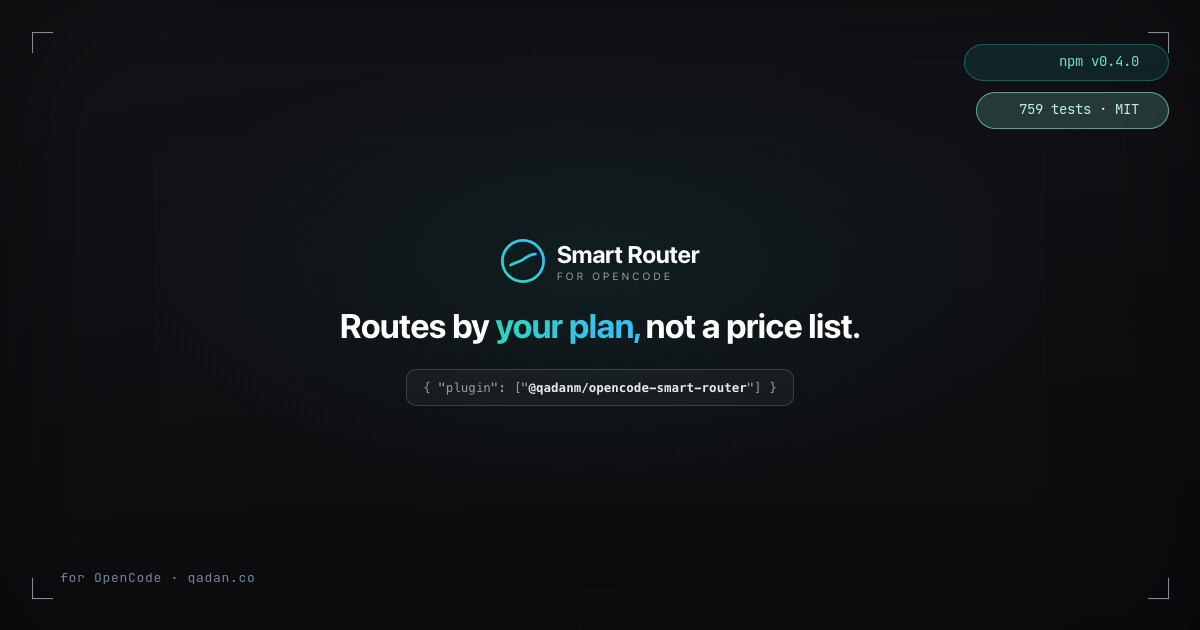
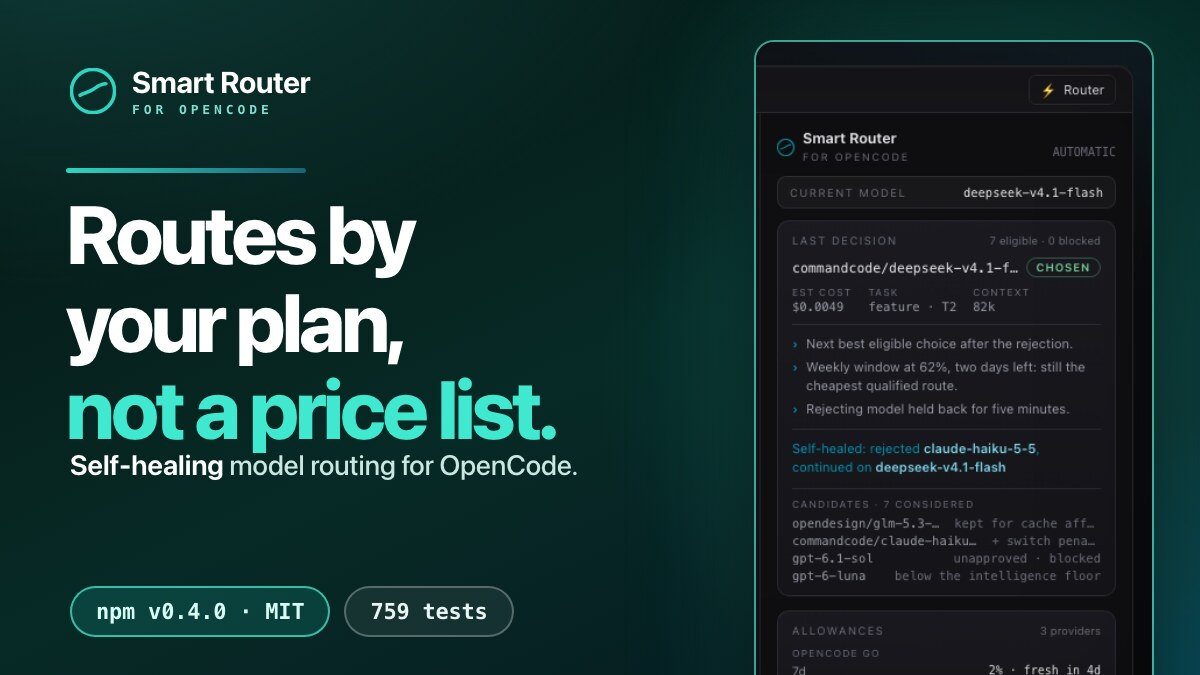
og: product poster card for the Smart Router case study, reproducible generator

diff --git a/scripts/og-smart-router.html b/scripts/og-smart-router.html
@@ -1,0 +1,78 @@
+<!doctype html>
+<html>
+<head>
+<meta charset="utf-8">
+<title>og</title>
+<style>
+  * { margin: 0; padding: 0; box-sizing: border-box; }
+  body {
+    width: 1200px; height: 675px; overflow: hidden; position: relative;
+    background:
+      radial-gradient(1050px 720px at 4% -30%, rgba(19, 78, 74, 0.9), transparent 68%),
+      radial-gradient(860px 640px at 108% 118%, rgba(8, 145, 178, 0.5), transparent 62%),
+      linear-gradient(155deg, #051512 0%, #072A26 52%, #06181F 100%);
+    font-family: -apple-system, BlinkMacSystemFont, "Segoe UI", Helvetica, Arial, sans-serif;
+    color: #fff;
+    -webkit-font-smoothing: antialiased;
+  }
+  .halo {
+    position: absolute; inset: 0; pointer-events: none;
+    background: radial-gradient(700px 500px at 88% 58%, rgba(45, 212, 191, 0.16), transparent 66%);
+  }
+  .brand {
+    position: absolute; left: 70px; top: 64px; display: flex; align-items: center; gap: 16px;
+  }
+  .mark { width: 46px; height: 46px; }
+  .brand .wm .n { font-size: 30px; font-weight: 700; letter-spacing: -0.02em; }
+  .brand .wm .s { font-size: 13px; letter-spacing: 0.3em; color: #7EDDD2; font-weight: 600; font-family: ui-monospace, SFMono-Regular, Menlo, monospace; margin-top: 2px; }
+  .headline { position: absolute; left: 66px; top: 190px; }
+  .headline .l {
+    font-size: 82px; font-weight: 800; letter-spacing: -0.045em; line-height: 1.07;
+  }
+  .headline .l.acc { color: #40E8D0; }
+  .sub { position: absolute; left: 70px; top: 448px; font-size: 28px; font-weight: 500; color: #C9E7E0; letter-spacing: -0.012em; }
+  .sub b { color: #fff; font-weight: 650; }
+  .chiprow { position: absolute; left: 70px; bottom: 38px; display: flex; gap: 14px; align-items: center; }
+  .chip {
+    font-family: ui-monospace, SFMono-Regular, Menlo, monospace;
+    background: rgba(15, 118, 110, 0.32); border: 2px solid rgba(64, 232, 208, 0.75);
+    color: #D8FFF6; border-radius: 999px; padding: 11px 24px;
+    font-size: 22px; font-weight: 600; letter-spacing: -0.01em;
+  }
+  .chip.ghost { background: rgba(255, 255, 255, 0.06); border-color: rgba(255, 255, 255, 0.28); color: #E7F4F1; }
+  .window {
+    position: absolute; right: 46px; top: 40px;
+    width: 400px; border-radius: 20px; overflow: hidden;
+    border: 2.5px solid rgba(94, 234, 212, 0.65);
+    box-shadow: 0 1px 0 rgba(255,255,255,0.14) inset, 0 34px 90px rgba(0, 0, 0, 0.62), 0 0 130px rgba(45, 212, 191, 0.24);
+  }
+  .window img { display: block; width: 100%; height: auto; }
+  .npmridgetop { position: absolute; left: 66px; top: 168px; width: 240px; height: 5px; border-radius: 3px;
+    background: linear-gradient(90deg, #2DD4BF, rgba(56, 189, 248, 0.4)); }
+</style>
+</head>
+<body>
+  <div class="halo"></div>
+  <div class="brand">
+    <svg class="mark" viewBox="0 0 32 32"><circle cx="16" cy="16" r="15" fill="none" stroke="#2DD4BF" stroke-width="2.5"/><path d="M7 19c3-2 6-2 9-4s5-4 9-4" fill="none" stroke="#2DD4BF" stroke-width="2.5" stroke-linecap="round"/></svg>
+    <span class="wm">
+      <span class="n">Smart Router</span><br>
+      <span class="s">FOR OPENCODE</span>
+    </span>
+  </div>
+  <div class="npmridgetop"></div>
+  <div class="headline">
+    <div class="l">Routes by</div>
+    <div class="l" style="color:#fff">your plan,</div>
+    <div class="l acc">not a price list.</div>
+  </div>
+  <div class="sub"><b>Self-healing</b> model routing for OpenCode.</div>
+  <div class="chiprow">
+    <span class="chip">npm v0.4.0 · MIT</span>
+    <span class="chip ghost">759 tests</span>
+  </div>
+  <div class="window">
+    <img src="panelcrop3.png" alt="">
+  </div>
+</body>
+</html>
